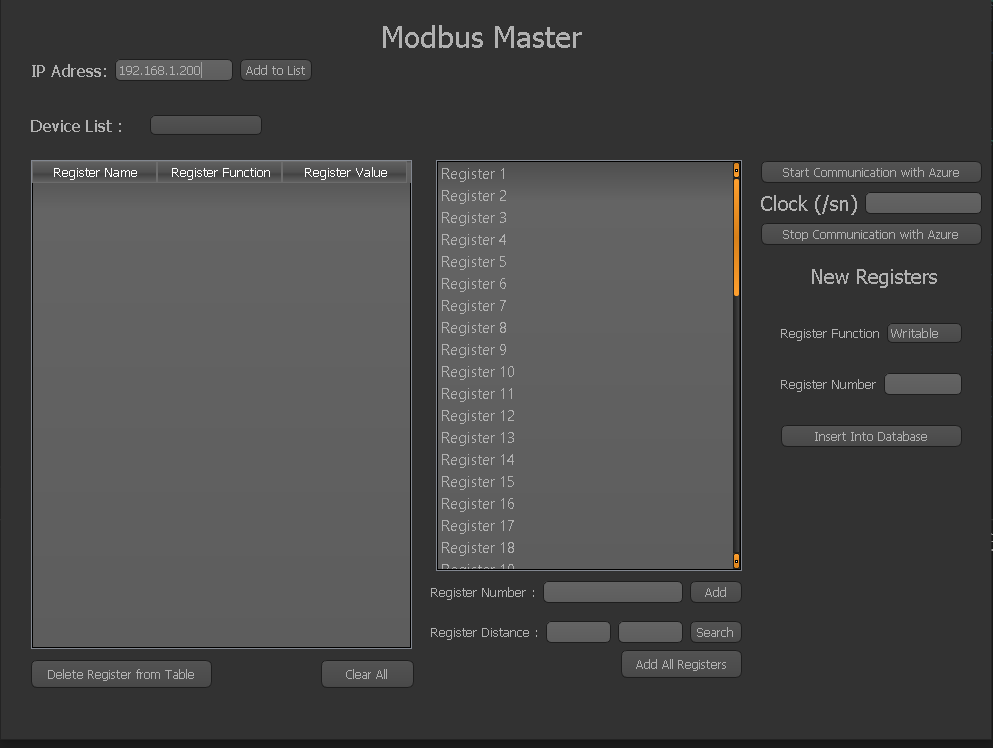
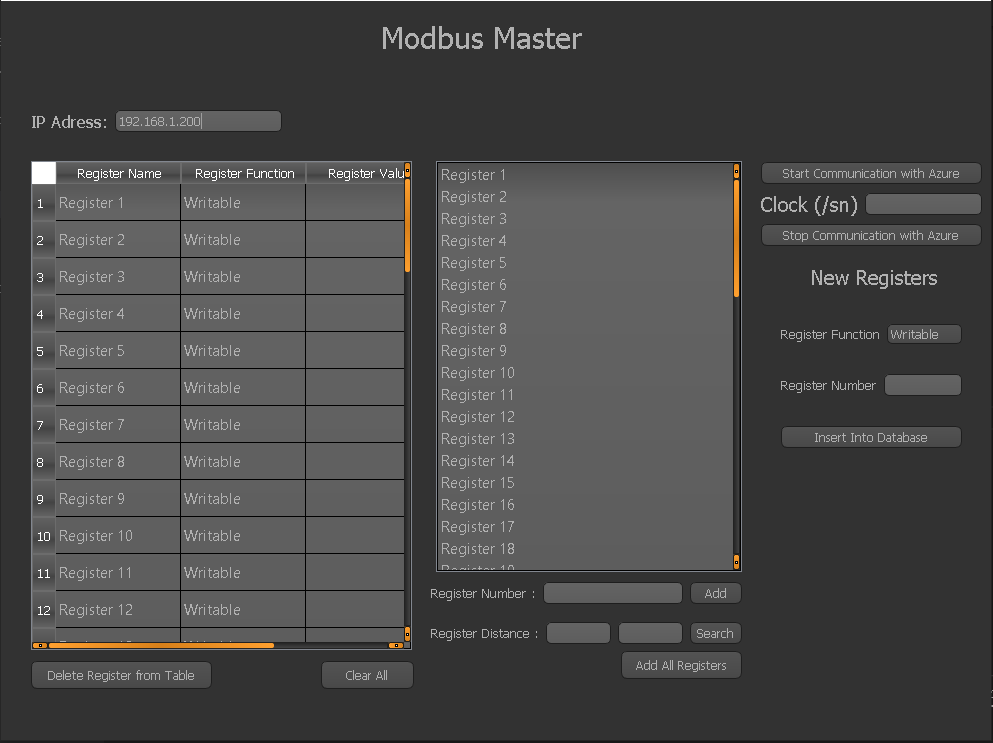
Bug fixing
1- adding clock function
2- Update every second Qtablewidget

diff --git a/newMainPage.py b/newMainPage.py
@@ -558,7 +558,7 @@ class Ui_MainWindow(object):
         self.label_2.setFont(font)
         self.label_2.setObjectName("label_2")
         self.verticalLayoutWidget = QtWidgets.QWidget(self.centralwidget)
-        self.verticalLayoutWidget.setGeometry(QtCore.QRect(760, 160, 221, 88))
+        self.verticalLayoutWidget.setGeometry(QtCore.QRect(750, 160, 221, 88))
         self.verticalLayoutWidget.setObjectName("verticalLayoutWidget")
         self.verticalLayout_5 = QtWidgets.QVBoxLayout(self.verticalLayoutWidget)
         self.verticalLayout_5.setContentsMargins(0, 0, 0, 0)
@@ -577,15 +577,19 @@ class Ui_MainWindow(object):
         self.label_10.setFont(font)
         self.label_10.setObjectName("label_10")
         self.horizontalLayout_10.addWidget(self.label_10)
-        self.btn_Clock = QtWidgets.QLineEdit(self.verticalLayoutWidget)
-        self.btn_Clock.setObjectName("btn_Clock")
-        self.horizontalLayout_10.addWidget(self.btn_Clock)
+        self.cmb_Clock = QtWidgets.QComboBox(self.verticalLayoutWidget)
+        self.cmb_Clock.setObjectName("cmb_Clock")
+        self.cmb_Clock.addItem("")
+        self.cmb_Clock.addItem("")
+        self.cmb_Clock.addItem("")
+        self.cmb_Clock.addItem("")
+        self.horizontalLayout_10.addWidget(self.cmb_Clock)
         self.verticalLayout_5.addLayout(self.horizontalLayout_10)
         self.btn_StopCommunication = QtWidgets.QPushButton(self.verticalLayoutWidget)
         self.btn_StopCommunication.setObjectName("btn_StopCommunication")
         self.verticalLayout_5.addWidget(self.btn_StopCommunication)
         self.verticalLayoutWidget_2 = QtWidgets.QWidget(self.centralwidget)
-        self.verticalLayoutWidget_2.setGeometry(QtCore.QRect(780, 300, 181, 171))
+        self.verticalLayoutWidget_2.setGeometry(QtCore.QRect(770, 400, 181, 171))
         self.verticalLayoutWidget_2.setObjectName("verticalLayoutWidget_2")
         self.verticalLayout = QtWidgets.QVBoxLayout(self.verticalLayoutWidget_2)
         self.verticalLayout.setContentsMargins(0, 0, 0, 0)
@@ -614,7 +618,7 @@ class Ui_MainWindow(object):
         self.btn_Insert.setObjectName("btn_Insert")
         self.verticalLayout.addWidget(self.btn_Insert)
         self.label_5 = QtWidgets.QLabel(self.centralwidget)
-        self.label_5.setGeometry(QtCore.QRect(810, 260, 131, 31))
+        self.label_5.setGeometry(QtCore.QRect(800, 360, 131, 31))
         font = QtGui.QFont()
         font.setPointSize(12)
         self.label_5.setFont(font)
@@ -695,6 +699,18 @@ class Ui_MainWindow(object):
         self.cmb_deviceList = QtWidgets.QComboBox(self.horizontalLayoutWidget_2)
         self.cmb_deviceList.setObjectName("cmb_deviceList")
         self.horizontalLayout_5.addWidget(self.cmb_deviceList)
+        self.horizontalLayoutWidget_3 = QtWidgets.QWidget(self.centralwidget)
+        self.horizontalLayoutWidget_3.setGeometry(QtCore.QRect(610, 110, 371, 31))
+        self.horizontalLayoutWidget_3.setObjectName("horizontalLayoutWidget_3")
+        self.horizontalLayout_6 = QtWidgets.QHBoxLayout(self.horizontalLayoutWidget_3)
+        self.horizontalLayout_6.setContentsMargins(0, 0, 0, 0)
+        self.horizontalLayout_6.setObjectName("horizontalLayout_6")
+        self.label_7 = QtWidgets.QLabel(self.horizontalLayoutWidget_3)
+        self.label_7.setObjectName("label_7")
+        self.horizontalLayout_6.addWidget(self.label_7)
+        self.lneAzureS = QtWidgets.QLineEdit(self.horizontalLayoutWidget_3)
+        self.lneAzureS.setObjectName("lneAzureS")
+        self.horizontalLayout_6.addWidget(self.lneAzureS)
         MainWindow.setCentralWidget(self.centralwidget)
         self.menubar = QtWidgets.QMenuBar(MainWindow)
         self.menubar.setGeometry(QtCore.QRect(0, 0, 990, 26))
@@ -719,6 +735,10 @@ class Ui_MainWindow(object):
         self.label_2.setText(_translate("MainWindow", "Modbus Master"))
         self.btn_Recording.setText(_translate("MainWindow", "Start Communication with Azure"))
         self.label_10.setText(_translate("MainWindow", "Clock (/sn)"))
+        self.cmb_Clock.setItemText(0, _translate("MainWindow", "0.05"))
+        self.cmb_Clock.setItemText(1, _translate("MainWindow", "0.1"))
+        self.cmb_Clock.setItemText(2, _translate("MainWindow", "0.2"))
+        self.cmb_Clock.setItemText(3, _translate("MainWindow", "1.0"))
         self.btn_StopCommunication.setText(_translate("MainWindow", "Stop Communication with Azure"))
         self.label_3.setText(_translate("MainWindow", "Register Function"))
         self.cmb_Funct.setItemText(0, _translate("MainWindow", "Writable"))
@@ -734,6 +754,7 @@ class Ui_MainWindow(object):
         self.btn_AllRegisters.setText(_translate("MainWindow", "Add All Registers"))
         self.btn_ClearAll.setText(_translate("MainWindow", "Clear All"))
         self.label_6.setText(_translate("MainWindow", "Device List :"))
+        self.label_7.setText(_translate("MainWindow", "Azure Connection String"))
         self.actionRecording_Registers.setText(_translate("MainWindow", "Recording Registers"))
         self.actionNew_Registers.setText(_translate("MainWindow", "New Registers"))
 

diff --git a/main.py b/main.py
@@ -47,11 +47,14 @@ class Worker(QtCore.QThread):
 
     any_signal = QtCore.pyqtSignal(int)
 
-    def __init__(self,parent=None,  ipAdress=None):
+    def __init__(self,parent=None,  ipAdress=None, QTableWidget=None, clock=None):
+
+        self.QTable = QTableWidget
         super(QtCore.QThread, self).__init__()
         self.ipAdress = ipAdress
 
         self.is_running = True
+        self.clock = clock
 
     def message_handler(self, message):
 
@@ -82,8 +85,6 @@ class Worker(QtCore.QThread):
 
         while True:
 
-            print("Erhan")
-
             clientAzure.on_message_received = self.message_handler  #When azure sends message to our client do that function
 
             tempDf = pd.DataFrame()
@@ -94,17 +95,26 @@ class Worker(QtCore.QThread):
 
             data = []
 
+            currentRow = 0
+
+            print(currentRow)
+
             for i in registers:
 
                 readedValuefromRegister = client.read_holding_registers(i, 1)
 
+                self.QTable.item(currentRow, 2).setText(str(readedValuefromRegister))
+                print(i)
+
                 data.append((i, readedValuefromRegister))
+
+                currentRow +=1
 
             message = Message(data)
 
             clientAzure.send_message(str(message))
             
-            time.sleep(0.1)
+            time.sleep(self.clock)
     
     def stop(self):
 
@@ -147,6 +157,8 @@ class ModbusMainWindow(QMainWindow, Ui_MainWindow, QWidget):
 
         #----------- Signal - Slot ------------#
 
+        
+
         self.ui.btn_Insert.clicked.connect(self.insertRegister)
 
         self.thread={}
@@ -159,13 +171,9 @@ class ModbusMainWindow(QMainWindow, Ui_MainWindow, QWidget):
 
         self.ui.btn_Recording.clicked.connect(self.runLongTask)
 
-        self.ui.table_Registers.itemChanged.connect(self.writeRegister)
-
         self.ui.btn_AllRegisters.clicked.connect(self.addAllRegisters)
 
         self.ui.btn_ClearAll.clicked.connect(self.clearAllRows)
-
-        self.ui.btn_StopCommunication.clicked.connect(self.stopCommunication)
 
         self.ui.table_Registers.itemClicked.connect(self.getRegisterValue)
 
@@ -223,18 +231,10 @@ class ModbusMainWindow(QMainWindow, Ui_MainWindow, QWidget):
         self.changedValue = int(re.search(r'\d+', output[0][0]).group())
         print(self.changedValue)
 
-        
-
-    def stopCommunication(self):
-
-        #print(threading.Thread.is_alive())
-        print("Durdu")
-
-        pass
-
-
 
     def clearAllRows(self):
+
+        self.stop_AllThreads()
 
         self.ui.table_Registers.setRowCount(0)
 
@@ -316,11 +316,9 @@ class ModbusMainWindow(QMainWindow, Ui_MainWindow, QWidget):
             
             pass
 
-    def writeRegister(self):
-
-        pass
-
     def runLongTask(self):
+
+        clock = float(self.ui.cmb_Clock.currentText()) # Azure Communication Clock
         
         data = []
         for i in range(self.ui.table_Registers.rowCount()):
@@ -331,13 +329,11 @@ class ModbusMainWindow(QMainWindow, Ui_MainWindow, QWidget):
 
         self.dfTempRegisters.to_csv("nope.csv")
 
-        print("Erhan2")
-
         length = [self.ui.cmb_deviceList.itemText(i) for i in range(self.ui.cmb_deviceList.count())]
 
         for i in range(len(length)):
-            print("Erhan1")
-            self.thread[i] = Worker(parent=None, ipAdress=length[i])
+
+            self.thread[i] = Worker(parent=None, ipAdress=length[i], QTableWidget=self.ui.table_Registers, clock=clock)
 
             self.thread[i].start()
 
